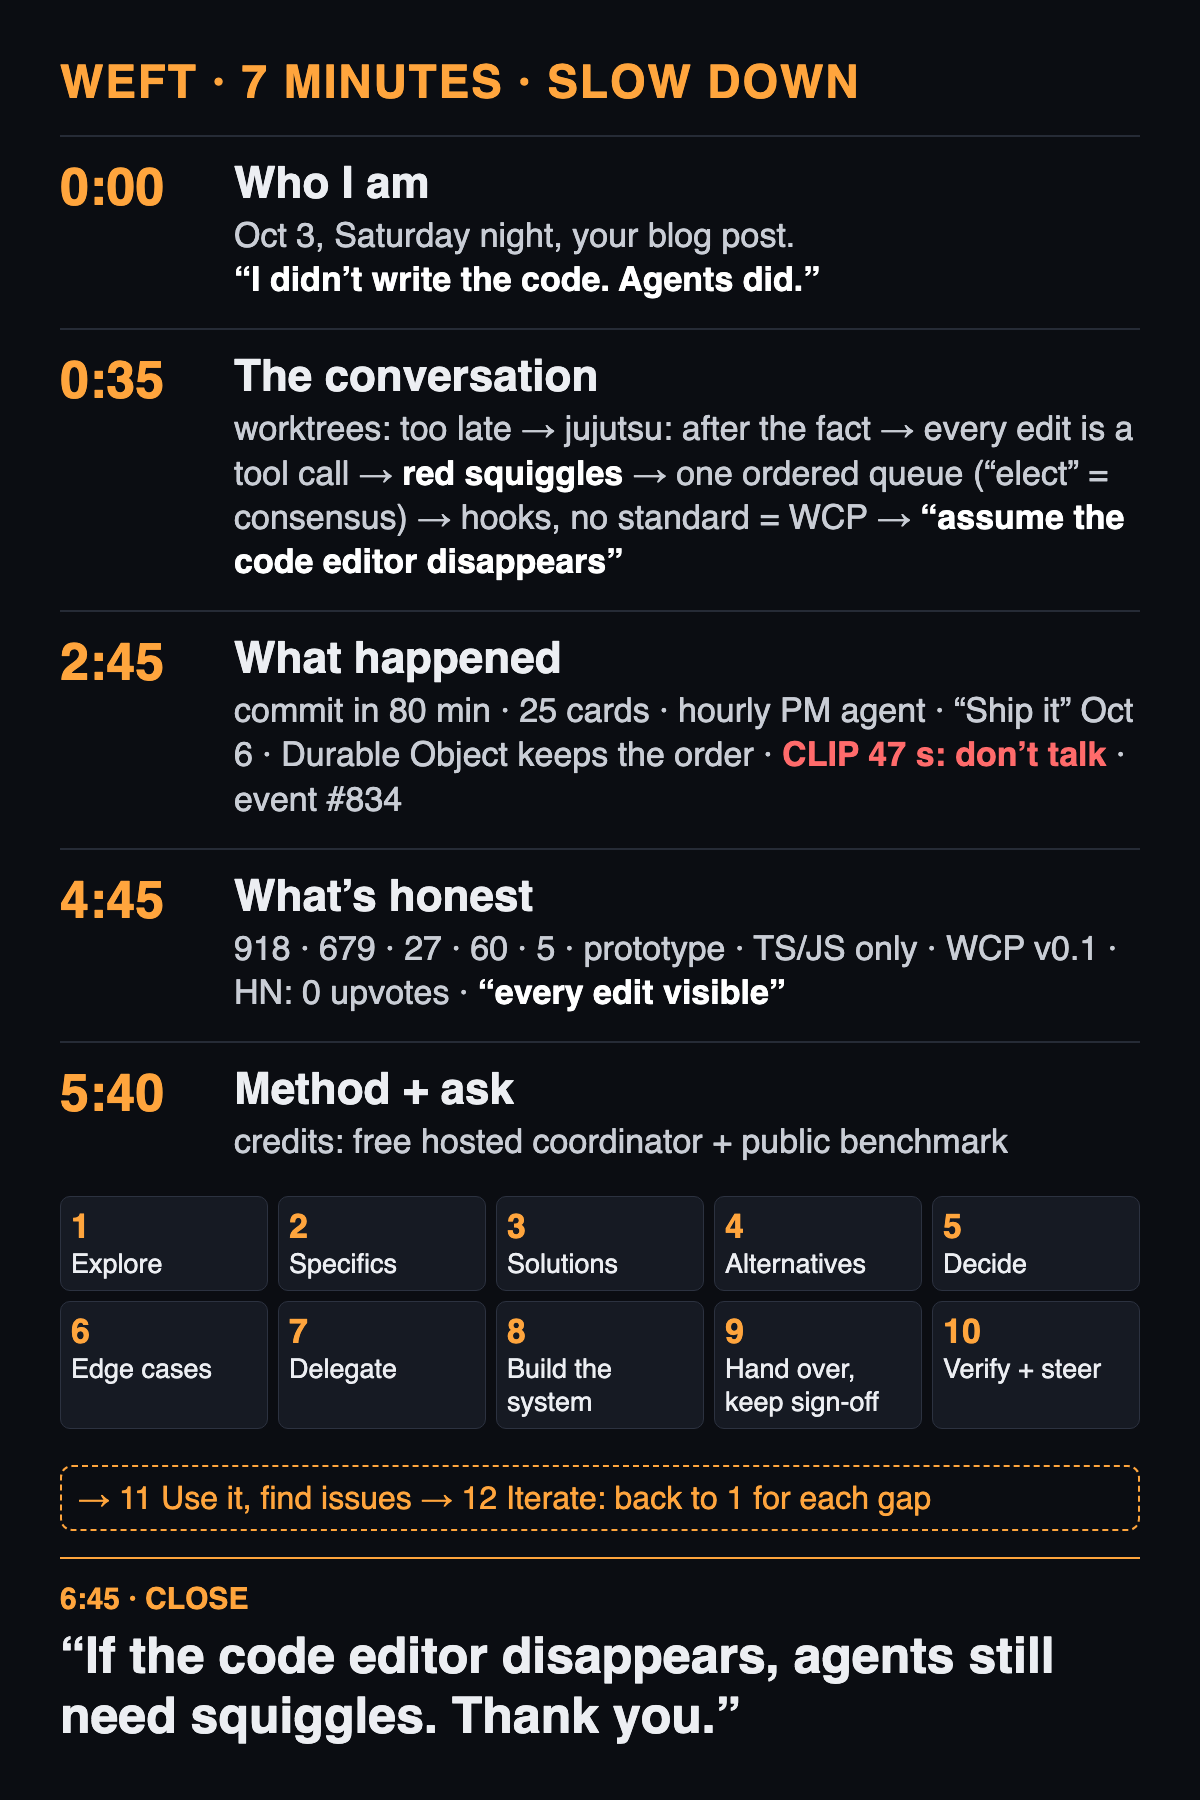
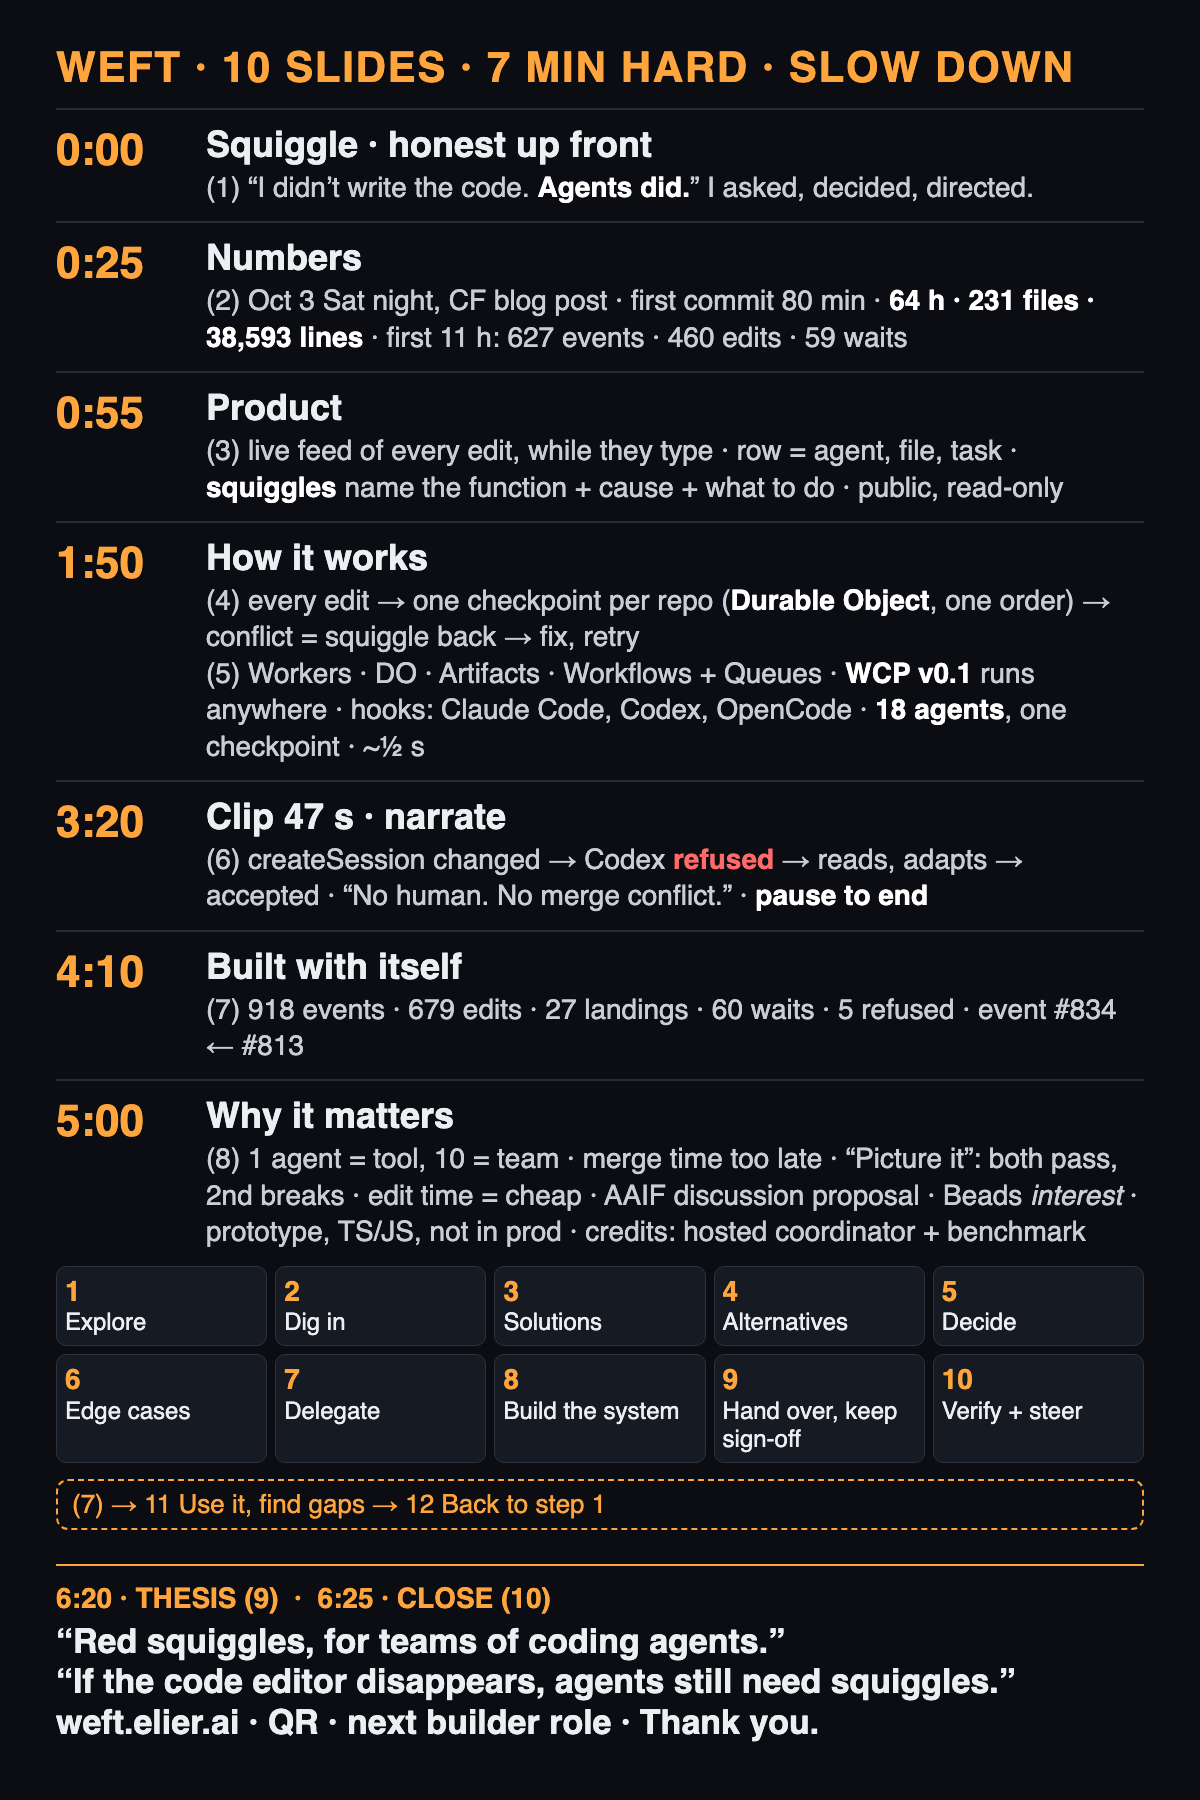
connect-2026: expand pitch to 833 words (6:40), sourced hook/benchmark claims; new cue card; render-visual stills

diff --git a/docs/launch/connect-2026/pitch.md b/docs/launch/connect-2026/pitch.md
@@ -21,19 +21,23 @@ Sources for every number (do not mix windows):
 - Platform: `apps/*/wrangler.toml` (Durable Objects, Artifacts, Workflows, Queues).
 - AAIF: `docs/proposal-aaif.md` and aaif/project-proposals#53, an open discussion proposal.
   WCP is a draft, v0.1. Not a standard.
+- Hooks, 18 agents, three harnesses: `demo/evidence/m2-report.md` (18 live agents, 6 tasks x
+  Claude Code, Codex, OpenCode, one coordinator; four valid runs passed, run 1 aborted).
+- "Just over half a second": `demo/evidence/m1-report.md`, pre-edit checks n=18, p50 558 ms.
+- Credits plan (hosted coordinator, public benchmark): same ask as the story version; a plan only.
 - Beads: conversations with people on the Beads team. No integration exists. Say "interest", not
   "partnership".
 
 ---
 
-## 0:00-0:40 · Slide 1: "I didn't write the code. Agents did."
+## 0:00-0:25 · Slide 1: "I didn't write the code. Agents did."
 
 "I'm John Nelson. This red line is a squiggle. It's what your editor shows you when your code is
 wrong.
 Here's the honest part, up front: I didn't write Weft's code. Agents did. I asked the questions, I
 made the decisions, and I directed the work."
 
-## 0:40-1:25 · Slide 2: the numbers
+## 0:25-0:55 · Slide 2: the numbers
 
 "On October 3rd, a Saturday night, I read Cloudflare's post about the next Git platform, and I
 started asking questions. Eighty minutes later, the first commit landed.
@@ -42,13 +46,19 @@ agent.
 And in the first eleven hours alone, Weft's log recorded 627 events and 460 edits. 59 times, Weft
 told one agent to wait for another."
 
-## 1:25-2:00 · Slide 3: the product
+## 0:55-1:50 · Slide 3: the product
 
 "This is Weft. It's a live feed of every edit every agent makes to a repo, in order, as it
 happens. Not after the merge. While they type.
-On the right are the squiggles: the edits that would have broken someone else's work."
+Every row is one event: which agent, which file, what it was doing, and which task on the board
+it was for. Across the top: how many agents are live, how many squiggles, how many edits landed
+on main.
+On the right are the squiggles: the edits that would have broken someone else's work. Each one
+names the function, the file, and the event that caused it. And it tells the agent what to do
+next: read the new version, and update your call.
+It's public and read-only. You can watch it from your seat."
 
-## 2:00-3:05 · Slides 4-5: how it works
+## 1:50-3:20 · Slides 4-5: how it works
 
 "Here's how it works. Every time an agent edits a file, that edit goes to one place first: a
 checkpoint for the repo. Cloudflare runs exactly one copy of it, a Durable Object, so there is one
@@ -59,9 +69,13 @@ and tries again. The conflict is settled before either commit exists.
 
 Under the hood: Workers serve the API and the site. A Durable Object per repo keeps the order.
 Artifacts stores the git. Workflows and Queues land the work on main.
-And the rules are an open protocol, WCP. It's a draft, version 0.1, and it can run anywhere."
+And the rules are an open protocol, WCP. It's a draft, version 0.1, and it can run anywhere.
+Weft plugs in where the agents already are. Claude Code, Codex and OpenCode can all run a hook
+on every tool call, and that's where the check happens. In our test runs, eighteen agents across
+those three tools worked on one repo at the same time, through one checkpoint. A typical check
+takes just over half a second, so the agent barely notices."
 
-## 3:05-3:55 · Slide 6: the clip (47 seconds, muted, narrate over it)
+## 3:20-4:10 · Slide 6: the clip (47 seconds, muted, narrate over it)
 
 "Here are two agents on the same repo. Claude Code on the left, Codex on the right.
 Claude Code changes a function called createSession.
@@ -71,7 +85,7 @@ It tries again, and it's accepted.
 No human stepped in. No merge conflict. Nobody found out at review time."
 (Pause until the clip ends.)
 
-## 3:55-4:50 · Slide 7: how it was built
+## 4:10-5:00 · Slide 7: how it was built
 
 "That's not only a demo. Weft coordinated the agents building Weft. By Monday its log had 918
 events, 679 edits and 27 landings on main. Sixty waits. Five edits refused before they could land.
@@ -82,20 +96,26 @@ alternatives, decide, reason through edge cases. Then delegate, build the system
 agents, hand over authority but keep sign-off, verify and steer. Then use it, find the gaps, and
 go back to step one."
 
-## 4:50-5:40 · Slide 8: why it matters
+## 5:00-6:20 · Slide 8: why it matters
 
 "Why does this matter? One agent is a tool. Ten agents on one repo is a team, and teams step on
 each other. Today they find out at merge time. That's too late, and it's expensive.
+Picture it. Two agents both pass their tests. Both open a pull request. The second one breaks at
+merge, and now a person has to read both, work out who was right, and redo the work. Weft moves
+that moment from merge time to edit time, where the fix is cheap: the agent is still holding the
+task.
 So the protocol is open. I've opened a discussion proposal with the Agentic AI Foundation, and
 people on the Beads team have been talking with me about it.
 It's a prototype. It understands TypeScript and JavaScript today. Nobody runs it in production yet.
-That's the next step."
+That's the next step. With the credits, I'd run a free hosted coordinator for outside teams. And a
+public benchmark: many agents on real repos, with and without Weft, measuring the rework it
+saves."
 
-## 5:40-6:00 · Slide 9: thesis
+## 6:20-6:25 · Slide 9: thesis
 
 "So that's Weft. Red squiggles, for teams of coding agents."
 
-## 6:00-6:30 · Slide 10: takeaway
+## 6:25-6:45 · Slide 10: takeaway
 
 "We have to assume the code editor disappears. If it does, agents still need squiggles.
 It's live right now at weft.elier.ai. Scan it, watch the agents.
@@ -103,6 +123,7 @@ And I'm looking for my next builder role. Thank you."
 
 ---
 
-Word count (spoken text only, counted by `build_slides.py --count`): see the build output; target
-815-875 words at 130 wpm = 6:15-6:45 with the clip narrated. If you run long, cut the twelve
-steps list on slide 7 to "explore, decide, delegate, verify, repeat" (-20 s).
+Word count (spoken text only, counted by `build_slides.py --count`, Oct 19): 833 words = 6:24 at
+130 wpm; the clip runs ~15 s longer than its narration, so about 6:40 total, 20 s under 7:00.
+If you run long, cut the twelve steps list on slide 7 to "explore, decide, delegate, verify,
+repeat" (-20 s), then the "Picture it" lines on slide 8 (-20 s).

diff --git a/docs/launch/connect-2026/review/cue-card.md b/docs/launch/connect-2026/review/cue-card.md
@@ -1,24 +1,37 @@
-# Cue card · Weft · 7 minutes
+# Cue card · Weft · 10 slides · 7 minutes hard
 
-**0:00 · WHO I AM** (slides 1-2)
-Oct 3, Saturday night, your blog post. **"I didn't write the code. Agents did."**
+**0:00 · SQUIGGLE, HONEST UP FRONT** (slide 1)
+**"I didn't write the code. Agents did."** I asked, decided, directed.
 
-**0:35 · THE CONVERSATION** (slides 3-9)
-worktrees: too late → jujutsu: after the fact → every edit is a tool call →
-**red squiggles** → one ordered queue ("elect" = consensus) → hooks, no standard = WCP →
-**"assume the code editor disappears"**
+**0:25 · NUMBERS** (slide 2)
+Oct 3, Saturday night, Cloudflare blog post · first commit in 80 min ·
+**64 h · 231 files · 38,593 lines** · first 11 h: 627 events · 460 edits · 59 waits
 
-**2:45 · WHAT HAPPENED** (slides 10-13)
-first commit in 80 min · 25 cards · hourly PM agent · "Ship it" Oct 6
-Durable Object = one copy, keeps order · **CLIP 47 s: don't talk** · event #834
+**0:55 · PRODUCT** (slide 3)
+Live feed of every edit, while they type · row = agent, file, task · **squiggles** name the
+function, the cause, what to do · public, read-only
 
-**4:45 · WHAT'S HONEST** (slides 14-16)
-918 · 679 · 27 · 60 · 5 · prototype, TS/JS only, WCP v0.1 · HN: 0 upvotes · "every edit visible"
+**1:50 · HOW IT WORKS** (slides 4-5)
+Every edit → one checkpoint per repo (**Durable Object**, one order) → conflict = squiggle back →
+fix, retry · Workers · DO · Artifacts · Workflows + Queues · **WCP v0.1** runs anywhere ·
+hooks: Claude Code, Codex, OpenCode · **18 agents**, one checkpoint · ~½ s per check
 
-**5:40 · METHOD + ASK** (slides 17-18)
-1 Explore · 2 Specifics · 3 Solutions · 4 Alternatives · 5 Decide · 6 Edge cases ·
-7 Delegate · 8 Build the system · 9 Hand over authority, keep sign-off · 10 Verify and steer
-→ 11 Use it, find issues → 12 Iterate: back to 1
-Credits: free hosted coordinator + public benchmark
+**3:20 · CLIP 47 s, NARRATE** (slide 6)
+createSession changed → Codex **refused** → reads, adapts → accepted ·
+"No human. No merge conflict." · **pause until it ends**
 
-**CLOSE (6:45):** "If the code editor disappears, agents still need squiggles. Thank you."
+**4:10 · BUILT WITH ITSELF** (slide 7)
+918 events · 679 edits · 27 landings · 60 waits · 5 refused · event #834 ← #813
+1 Explore · 2 Dig in · 3 Solutions · 4 Alternatives · 5 Decide · 6 Edge cases ·
+7 Delegate · 8 Build the system · 9 Hand over, keep sign-off · 10 Verify + steer
+→ 11 Use it, find gaps → 12 Back to step 1
+
+**5:00 · WHY IT MATTERS** (slide 8)
+1 agent = tool, 10 = team · merge time is too late · "Picture it": both pass, 2nd breaks ·
+edit time = cheap · AAIF discussion proposal · Beads *interest* · prototype, TS/JS, not in prod ·
+credits: free hosted coordinator + public benchmark
+
+**6:20 · THESIS** (slide 9): "Red squiggles, for teams of coding agents."
+
+**6:25 · CLOSE** (slide 10): "If the code editor disappears, agents still need squiggles."
+weft.elier.ai QR · next builder role · Thank you.
